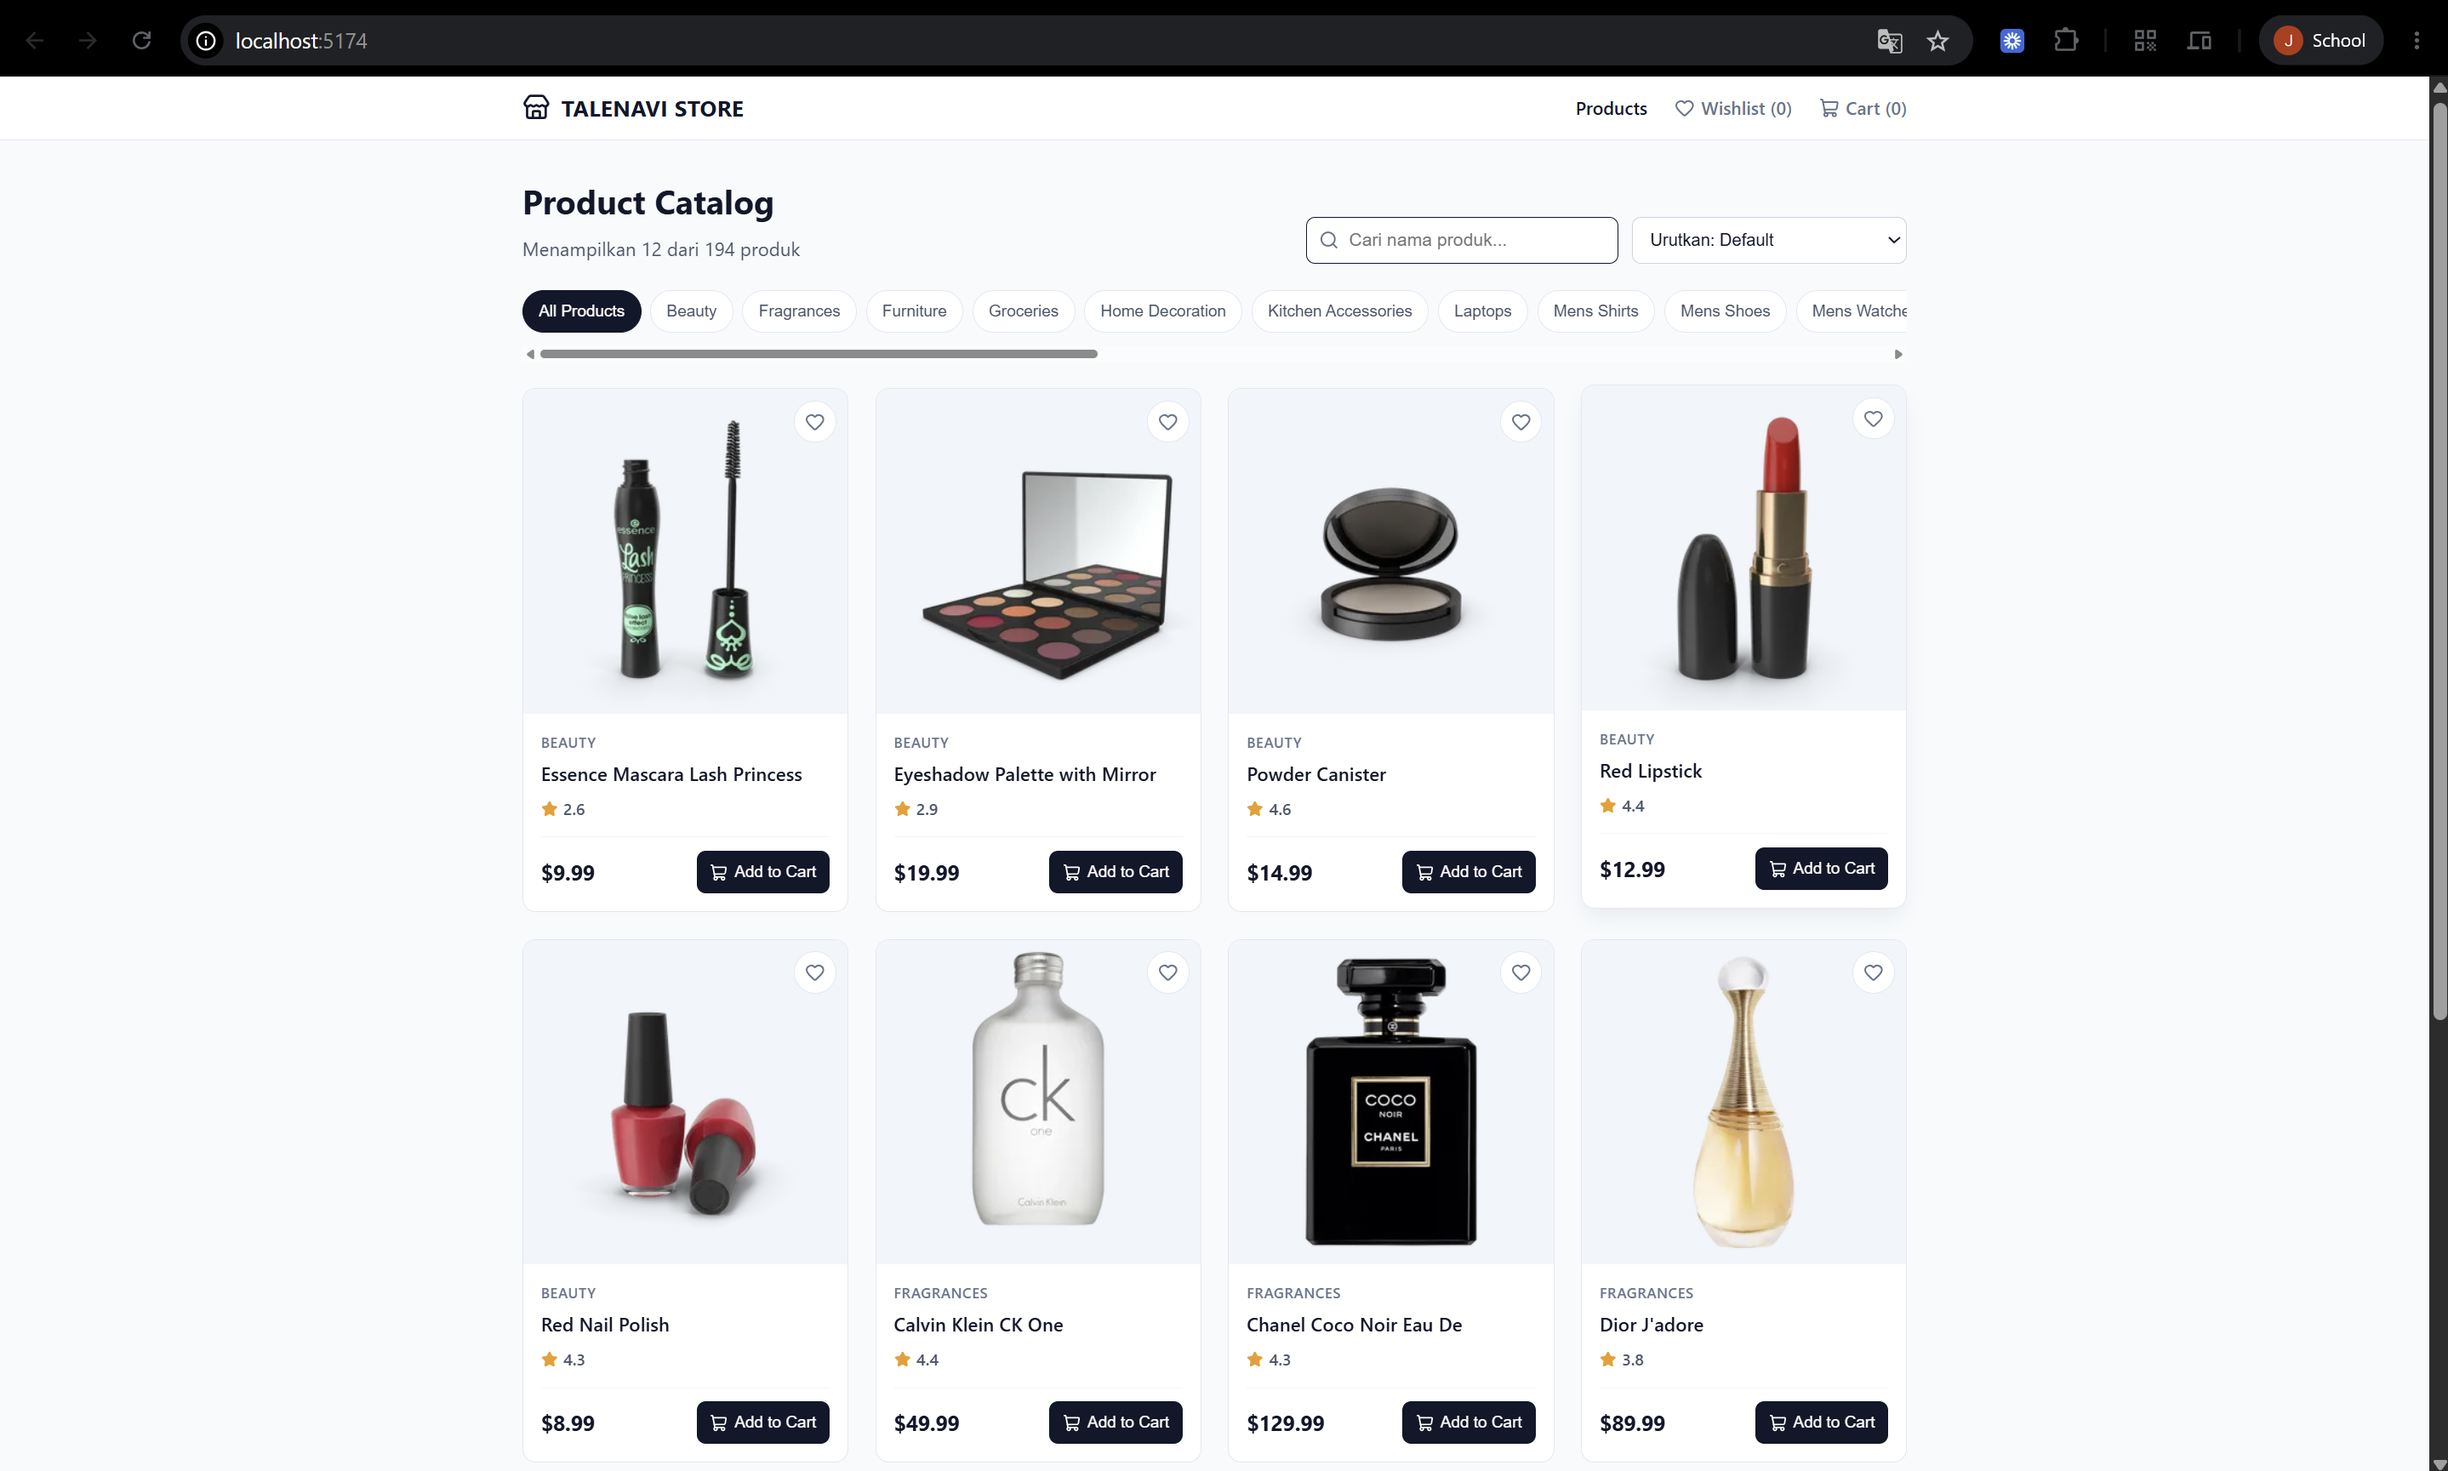
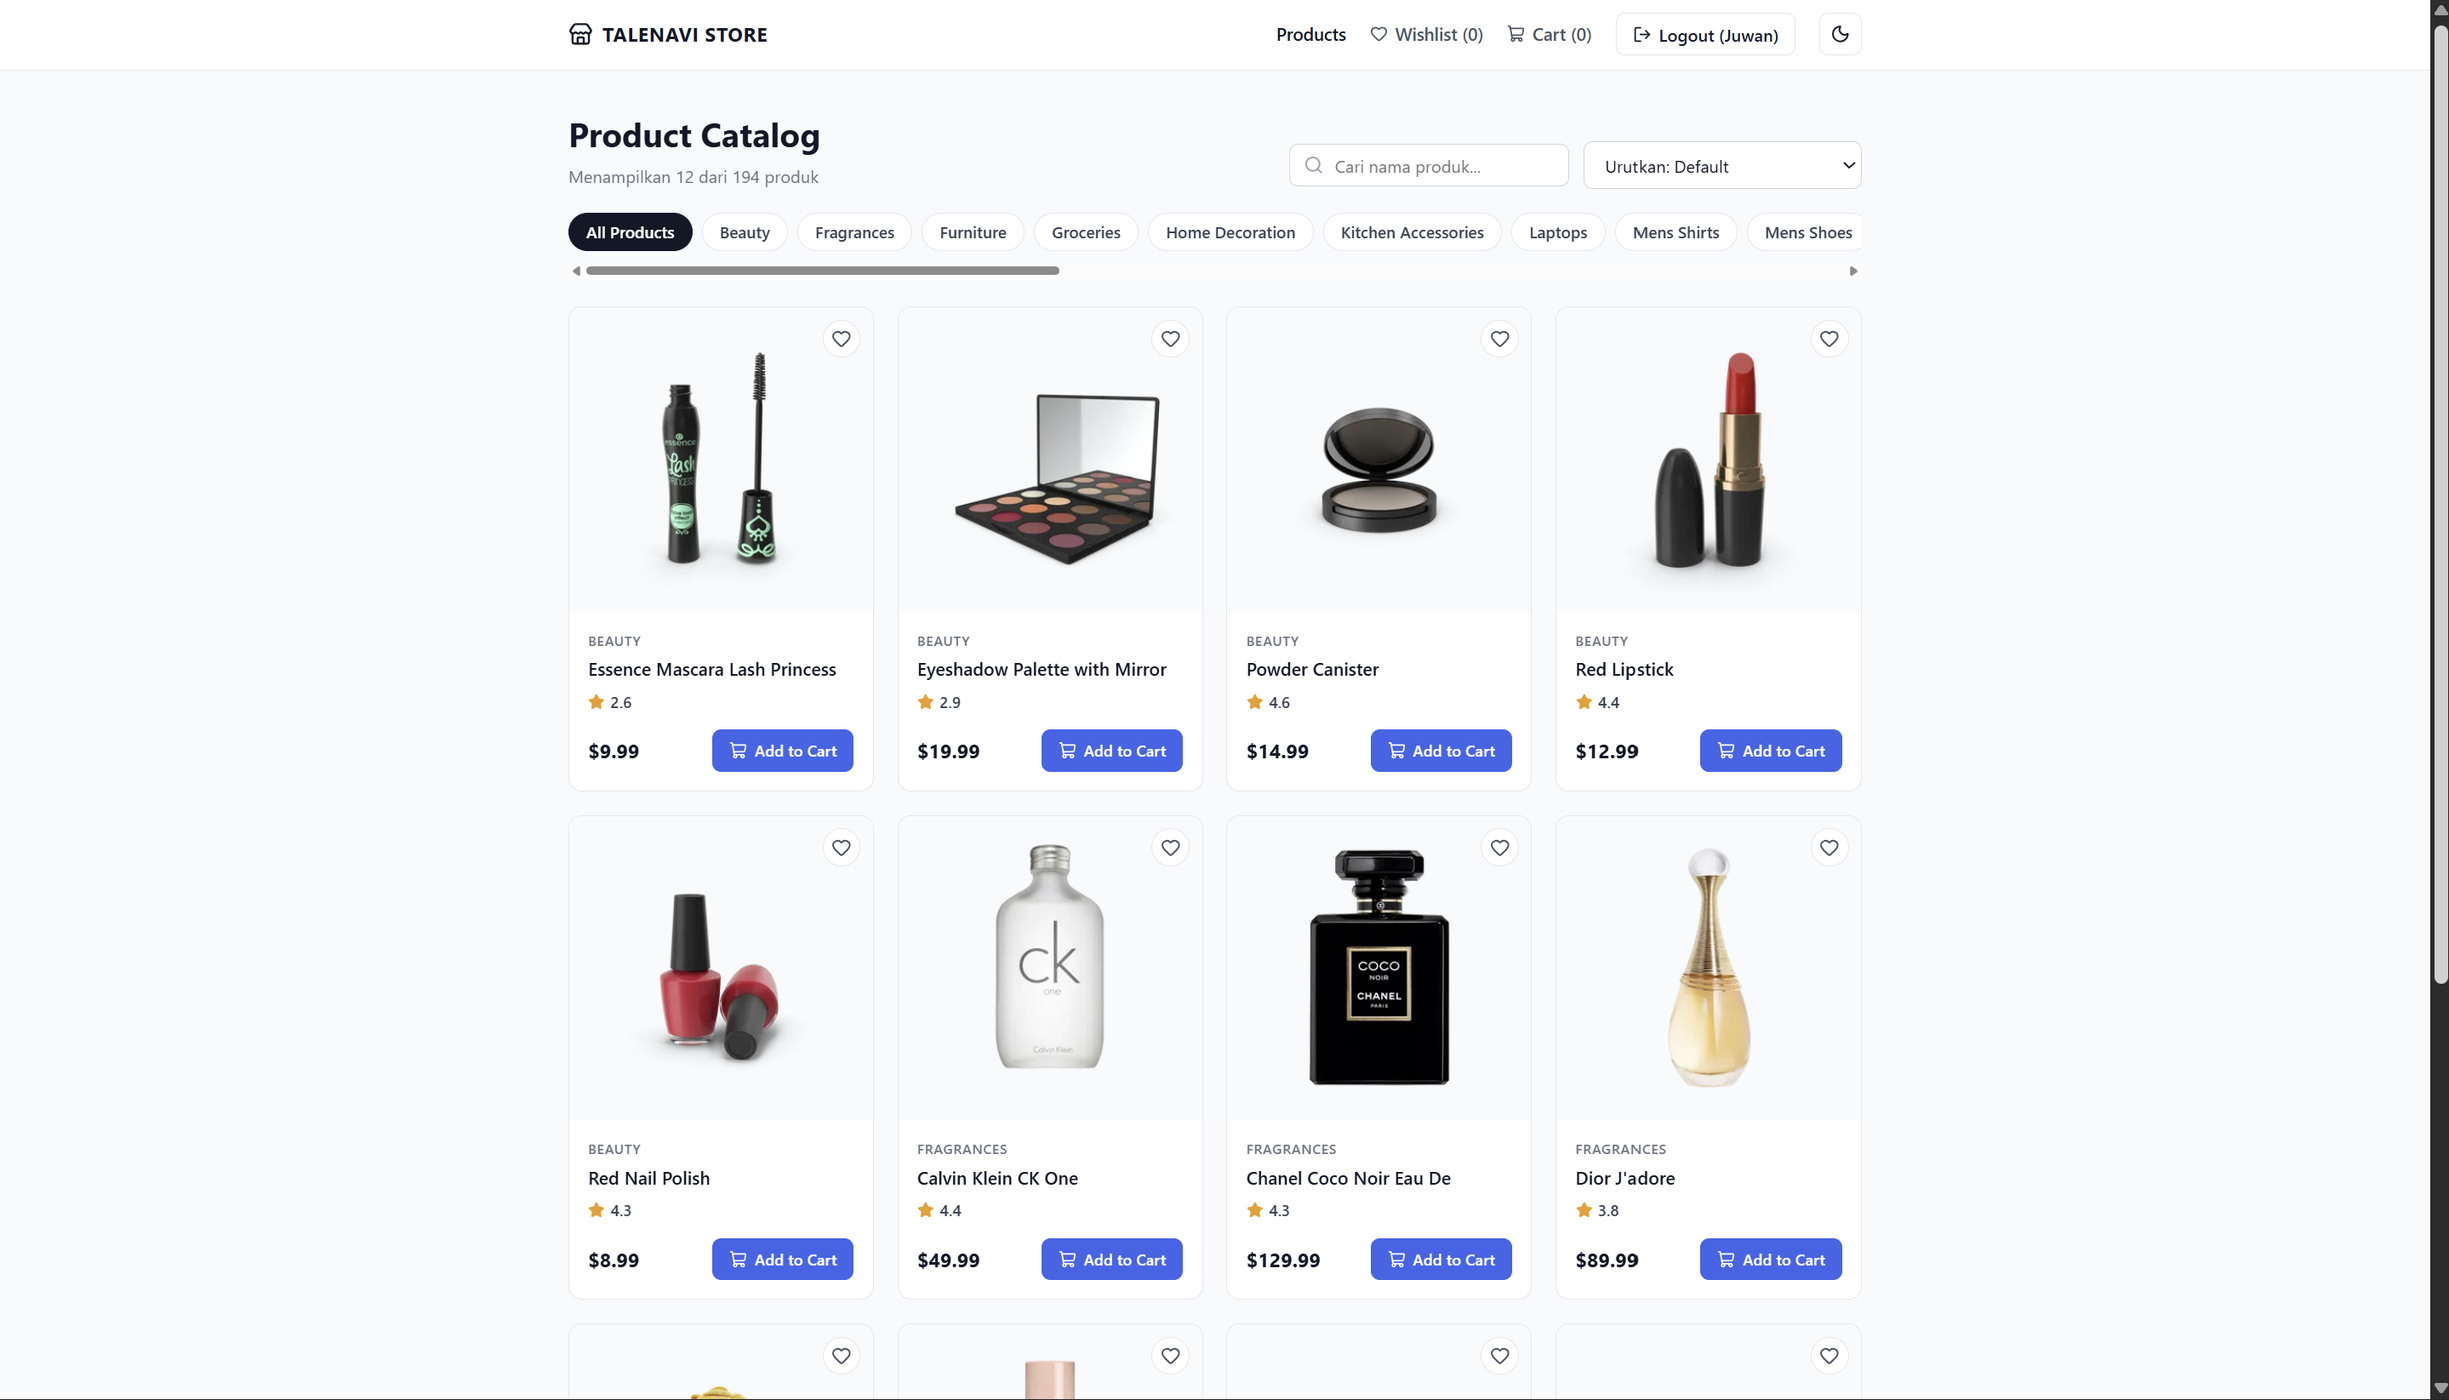
docs: update README with demo credentials and app screenshots

diff --git a/README.md b/README.md
@@ -1,6 +1,6 @@
 # TALENAVI STORE — Product Catalog
 
-Aplikasi web katalog produk e-commerce responsif yang dibangun menggunakan **React.js** dan **Vite** untuk **Frontend Developer Technical Test — PT Dynamic Talenta Navigator (Talenavi)**. Aplikasi ini mengambil data secara dinamis dari DummyJSON REST API serta dilengkapi manajemen keranjang belanja dan wishlist secara persisten di sisi klien.
+Aplikasi web katalog produk e-commerce responsif yang dibangun menggunakan **React.js** dan **Vite** untuk **Frontend Developer Technical Test — PT Dynamic Talenta Navigator (Talenavi)**. Aplikasi ini mengambil data secara dinamis dari DummyJSON REST API serta dilengkapi manajemen autentikasi, keranjang belanja, dan wishlist secara persisten di sisi klien.
 
 🔗 **Live Demo:** [https://talenavi-product-catalog.vercel.app](https://talenavi-product-catalog.vercel.app)
 
@@ -10,12 +10,13 @@ Aplikasi web katalog produk e-commerce responsif yang dibangun menggunakan **Rea
 
 - **Katalog Produk & Pagination:** Menampilkan 12 produk per halaman menggunakan parameter `limit` dan `skip` dengan navigasi nomor halaman dinamis.
 - **Pencarian Real-Time (Debounced):** Pencarian produk berdasarkan kata kunci yang dioptimalkan dengan *custom hook* `useDebounce` (400 ms) untuk mencegah pemanggilan API berulang saat mengetik.
-- **Filter Kategori & Sorting:** Penyaringan daftar produk berdasarkan kategori dari API serta pengurutan (*sorting*) berdasarkan **Harga** (terendah/tertinggi) dan **Rating**.
+- **Filter Kategori & Sorting:** Penyaringan daftar produk berdasarkan kategori dari API (`/products/categories`) serta pengurutan (*sorting*) berdasarkan **Harga** (terendah/tertinggi) dan **Rating**.
 - **Detail Produk (`/products/:id`):** Menampilkan galeri gambar interaktif, merek, rating, ketersediaan stok, diskon, pengaturan jumlah pembelian, serta daftar ulasan pelanggan (**Customer Reviews**).
+- **Autentikasi & Protected Route (`/login`):** Halaman login yang terintegrasi dengan DummyJSON Auth API (`POST /auth/login`) untuk memproteksi akses menuju halaman keranjang belanja (`/cart`).
 - **Wishlist (`/wishlist`):** Menyimpan dan mengelola daftar produk favorit pengguna.
-- **Keranjang Belanja (`/cart`):** Mengubah jumlah item (`+`/`-`) dengan **validasi batas maksimal stok** dari API, menghapus produk, menghitung subtotal dan total harga otomatis, serta simulasi *checkout*.
-- **Penyimpanan Persisten:** Data keranjang dan wishlist tersimpan otomatis ke `localStorage` sehingga tetap aman meskipun halaman di-*refresh*.
-- **Penanganan State & Responsive UI:** Dilengkapi indikator *loading*, pesan data kosong (*empty state*), penanganan *error* dengan tombol **Coba Lagi**, serta tata letak responsif untuk Mobile (1–2 kolom + *hamburger menu*), Tablet (3 kolom), dan Desktop (4 kolom).
+- **Keranjang Belanja (`/cart`):** Mengubah jumlah item (`+`/`-`) dengan **validasi batas maksimal stok** dari API, menghapus produk, mengosongkan keranjang, menghitung subtotal dan total harga otomatis, serta simulasi *checkout*.
+- **Penyimpanan Persisten:** Data sesi login, keranjang, wishlist, dan preferensi tema tersimpan otomatis ke `localStorage` sehingga tetap aman meskipun halaman di-*refresh*.
+- **Dark Mode & Responsive UI:** Mendukung peralihan **Light Mode** dan **Dark Mode**, indikator *loading*, pesan data kosong (*empty state*), penanganan *error* dengan tombol **Coba Lagi**, serta tata letak responsif untuk Mobile (1–2 kolom + *hamburger menu*), Tablet (3 kolom), dan Desktop (4 kolom).
 
 ---
 
@@ -25,17 +26,18 @@ Aplikasi web katalog produk e-commerce responsif yang dibangun menggunakan **Rea
 - **Routing:** React Router DOM v7
 - **Icons:** Lucide React
 - **State Management:** React Context API + `localStorage`
-- **API:** DummyJSON Products API
-- **Styling:** Vanilla CSS (Responsive CSS Grid & Flexbox)
+- **API:** DummyJSON Products & Auth REST API
+- **Testing:** Vitest & React Testing Library
+- **Styling:** Vanilla CSS (Responsive CSS Grid, Flexbox & Dark Theme)
 
 ---
 
 ## Alasan Pemilihan State Management
 
-Aplikasi ini menggunakan **React Context API** yang dikombinasikan dengan **`localStorage`** (`ShopContext`) untuk mengelola *state* **Cart (Keranjang)** dan **Wishlist (Favorit)** karena:
+Aplikasi ini menggunakan **React Context API** yang dikombinasikan dengan **`localStorage`** (`ShopContext`) untuk mengelola *state* **Auth (Login)**, **Cart (Keranjang)**, **Wishlist (Favorit)**, dan **Theme (Dark/Light Mode)** karena:
 
-1. **Sesuai dengan Skala & Kompleksitas Aplikasi:** Kebutuhan *global state* berfokus pada sinkronisasi jumlah item di Navbar, halaman katalog, halaman detail produk, wishlist, dan keranjang. React Context API sudah sangat memadai tanpa menambah ukuran *bundle* dari *library* eksternal seperti Redux.
-2. **Persistensi Data Sisi Klien:** Karena endpoint `POST/PUT/DELETE` pada DummyJSON hanya bersifat simulasi (tidak tersimpan permanen di server), sinkronisasi otomatis dengan `localStorage` memastikan data belanja dan produk favorit pengguna tetap bertahan setelah halaman di-*refresh*.
+1. **Sesuai dengan Skala & Kompleksitas Aplikasi:** Kebutuhan *global state* berfokus pada sinkronisasi status login, jumlah item di Navbar, halaman katalog, halaman detail produk, wishlist, dan keranjang. React Context API sudah sangat memadai tanpa menambah ukuran *bundle* dari *library* eksternal seperti Redux.
+2. **Persistensi Data Sisi Klien:** Karena endpoint `POST/PUT/DELETE` pada DummyJSON hanya bersifat simulasi (tidak tersimpan permanen di server), sinkronisasi otomatis dengan `localStorage` memastikan data belanja, produk favorit, dan sesi pengguna tetap bertahan setelah halaman di-*refresh*.
 3. **Validasi Stok Terpusat:** Seluruh logika penambahan maupun perubahan kuantitas item dikontrol di satu tempat (`ShopContext`), sehingga pembatasan jumlah pembelian agar tidak melebihi stok produk dari API berjalan konsisten di seluruh halaman.
 
 ---
@@ -43,41 +45,57 @@ Aplikasi ini menggunakan **React Context API** yang dikombinasikan dengan **`loc
 ## Struktur Folder
 
 text
+public/
+└── screenshots/     # Dokumentasi tampilan Desktop & Mobile
 src/
 ├── assets/          # Aset statis aplikasi
-├── components/      # Komponen UI reusable (Navbar, SearchBar, ProductCard, Pagination)
-├── context/         # Global state management untuk Cart & Wishlist (ShopContext)
+├── components/      # Komponen UI reusable (Navbar, SearchBar, ProductCard, Pagination, ProtectedRoute)
+├── context/         # Global state management untuk Auth, Cart, Wishlist & Theme (ShopContext)
 ├── hooks/           # Custom hooks (useDebounce)
-├── pages/           # Halaman utama (Home, ProductDetail, Wishlist, Cart)
-├── services/        # Layanan integrasi REST API terpisah (productService)
+├── pages/           # Halaman utama (Home, ProductDetail, Wishlist, Cart, Login)
+├── services/        # Layanan integrasi REST API terpisah (productService & authService)
+├── tests/           # Unit & integration test aplikasi
+├── utils/           # Fungsi utilitas pendukung
 ├── App.jsx          # Konfigurasi routing utama
-├── index.css        # Styling global dan responsif (Mobile, Tablet, Desktop)
+├── index.css        # Styling global, Dark Mode, dan responsif (Mobile, Tablet, Desktop)
 └── main.jsx         # Entry point aplikasi
+
 
 ---
 
 ## Cara Menjalankan di Lokal
 
-1. Clone repository ini ke komputer Anda:
+1. **Clone repository ini ke komputer Anda:**
    bash
    git clone https://github.com/24k10020-ai/talenavi-product-catalog.git
    cd talenavi-product-catalog
    
-
-2. Install seluruh *dependencies* yang dibutuhkan:
+2. **Install seluruh *dependencies* yang dibutuhkan:**
    bash
    npm install
 
-3. Jalankan server pengembangan lokal:
+3. **Jalankan server pengembangan lokal:**
    bash
    npm run dev
 
-4. Buka browser dan akses alamat **`http://localhost:5173/`**.
+4. **Buka browser dan akses alamat:**
+   `http://localhost:5173/`
+
+5. **Menjalankan pengujian (opsional):**
+   bash
+   npm test
+
+---
+
+## Akun Demo Login (Untuk Akses Halaman Cart)
+
+- **Akun Demo Lokal:** Username `juwan` | Password `juwanpass`
+- **Akun Resmi DummyJSON API:** Username `emilys` | Password `emilyspass` (atau `michaelw` / `michaelwpass`)
 
 ---
 
 ## Tampilan Aplikasi (Desktop & Mobile)
 
-| Tampilan Desktop ($\ge 1280\text{px}$) | Tampilan Mobile ($\ge 360\text{px}$) |
+| Tampilan Desktop (≥ 1280px) | Tampilan Mobile (≥ 360px) |
 | :---: | :---: |
-| ![Desktop View](public/screenshots/desktop.png) | ![Mobile View](public/screenshots/mobile.png) |
+| ![Desktop View](public/screenshots/desktop.png) | <img src="public/screenshots/mobile.png" alt="Mobile View" width="300" /> |
